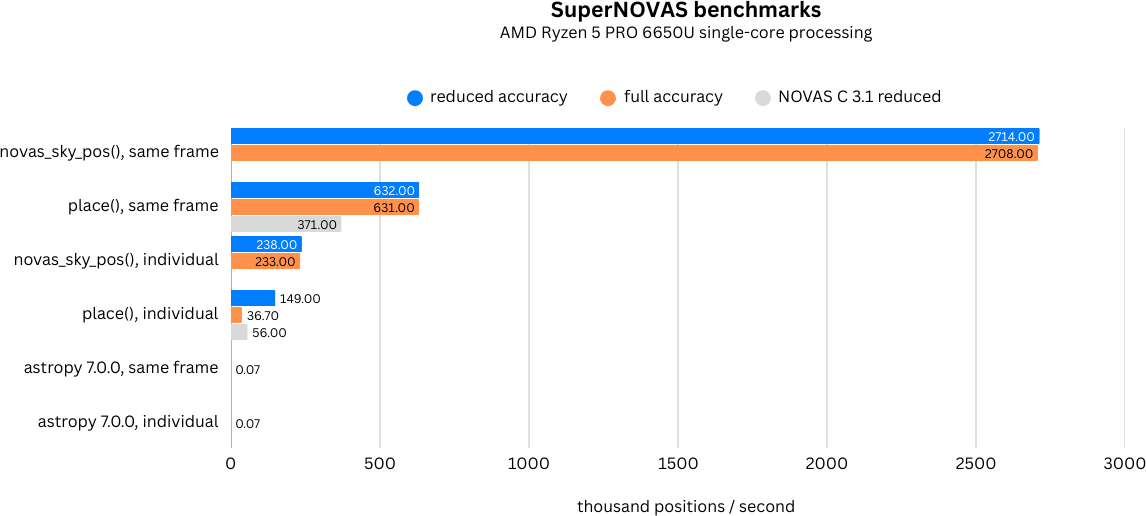
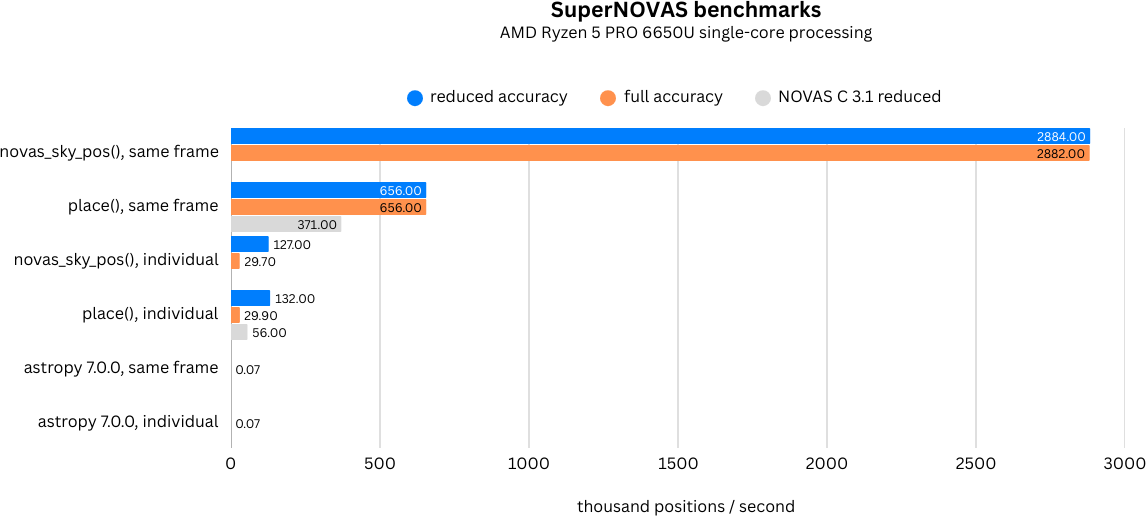
Correct individual frames benchmarks and site update

diff --git a/benchmark/benchmark-place.c b/benchmark/benchmark-place.c
@@ -183,7 +183,7 @@ int main(int argc, const char *argv[]) {
   // Benchmark reduced accuracy, individual fames
   clock_gettime(CLOCK_REALTIME, &unix_time);
   for(i = 0; i < N; i++) {
-    novas_set_unix_time(unix_time.tv_sec, unix_time.tv_nsec, LEAP_SECONDS, DUT1, &obs_time);
+    novas_set_unix_time(unix_time.tv_sec + i, unix_time.tv_nsec, LEAP_SECONDS, DUT1, &obs_time);
     novas_make_frame(NOVAS_REDUCED_ACCURACY, &obs, &obs_time, POLAR_DX, POLAR_DY, &obs_frame);
     calc_pos(&stars[i], &obs_frame);
   }
@@ -195,7 +195,7 @@ int main(int argc, const char *argv[]) {
   // Benchmark full accuracy, individual frames
   clock_gettime(CLOCK_REALTIME, &unix_time);
   for(i = 0; i < N; i++) {
-    novas_set_unix_time(unix_time.tv_sec, unix_time.tv_nsec, LEAP_SECONDS, DUT1, &obs_time);
+    novas_set_unix_time(unix_time.tv_sec + i, unix_time.tv_nsec, LEAP_SECONDS, DUT1, &obs_time);
     novas_make_frame(NOVAS_FULL_ACCURACY, &obs, &obs_time, POLAR_DX, POLAR_DY, &obs_frame);
     calc_pos(&stars[i], &obs_frame);
   }

diff --git a/benchmark/benchmark-astropy.py b/benchmark/benchmark-astropy.py
@@ -20,13 +20,14 @@ from astropy.coordinates import SkyCoord, EarthLocation, Longitude, Latitude, CI
 # main program entry point
 
 # Number of sources / iterations to test with
-N = 300			
+N = 300
+
 
 # ----------------------------------------------------------------------------
 # Set up a source 'catalog' with the desired number of sources and random 
 # properties
 sources = []
-	
+
 for i in range(0, N):
 	# Generate random source properties
 	ra = Longitude(360.0 * (random.random() - 0.5) * u.degree)

diff --git a/README.md b/README.md
@@ -1352,27 +1352,27 @@ aberration and gravitational deflection corrections from the observer's point of
 
  | Description                         | accuracy  | positions / sec |
  |-------------------------------------|:---------:|----------------:|
- | `novas_sky_pos()`, same frame       | reduced   |         2713879 |
- |                                     |   full    |         2708014 |
- | `place()`, same time, same observer | reduced   |          631643 |
- |                                     |   full    |          630705 |
- | `novas_sky_pos()`, individual       | reduced   |          238445 |
- |                                     |   full    |          232862 |
- | `place()`, individual               | reduced   |          149049 |
- |                                     |   full    |           36619 |
+ | `novas_sky_pos()`, same frame       | reduced   |         2884159 |
+ |                                     |   full    |         2881913 |
+ | `place()`, same time, same observer | reduced   |          656077 |
+ |                                     |   full    |          656112 |
+ | `novas_sky_pos()`, individual       | reduced   |          127370 |
+ |                                     |   full    |           29674 |
+ | `place()`, individual               | reduced   |          132218 |
+ |                                     |   full    |           29932 |
 
 For reference, we also provide the reduced accuracy benchmarks from NOVAS C 3.1.
 
  | Description                         | accuracy  | positions / sec |
  |-------------------------------------|:---------:|----------------:|
- | NOVAS C 3.1 `place()`, same         | reduced   |          371164 |
+ | NOVAS C 3.1 `place()`, same frame   | reduced   |          371164 |
  | NOVAS C 3.1 `place()`, individual   | reduced   |           55484 |
  
 For comparison, a very similar benchmark with [astropy](https://www.astropy.org/) (v7.0.0 on Python v3.13.1) on the 
 same machine, provides ~70 positions / second both for a fixed frame and for individual frames. As such, 
 __SuperNOVAS__ is a whopping ~40000 times faster than __astropy__ for calculations in the same observing frame, and 
-~3000 times faster than __astropy__ for individual frames. (The __astropy__ benchmarking code is also provided under 
-the `benchmark/` folder in the __SuperNOVAS__ GitHub repository).
+400--2000 times faster than __astropy__ for individual frames. (The __astropy__ benchmarking code is also provided 
+under the `benchmark/` folder in the __SuperNOVAS__ GitHub repository).
  
  | Description                                     | positions / sec |
  |-------------------------------------------------|----------------:|
@@ -1386,7 +1386,7 @@ As one may observe, the __SuperNOVAS__ `novas_sky_pos()` significantly outperfor
 repeatedly calculating positions for sources for the same instant of time and same observer location, providing up to 
 2 orders of magnitude faster performance than for individual observing times and/or observer locations. Also, when 
 observing frames are reused, the performance is essentially independent of the accuracy. By contrast, calculations for 
-individual observing times or observer locations are generally around 2x faster if reduced accuracy is sufficient.
+individual observing times or observer locations are generally around 4x faster if reduced accuracy is sufficient.
 
 The above benchmarks are all for single-threaded performance. Since __SuperNOVAS__ is generally thread-safe, you can 
 expect that performance shall scale with the number of concurrent CPUs used. So, on a 16-core PC, with similar single 
@@ -1445,7 +1445,7 @@ one minute.
    time. Once set, you can obtain an expression of that time in any timescale of choice. And, you can create a new 
    time specification by incrementing an existing one, or measure precise time differences.
    
- - New coordinate reference systems `NOVAS_MOD` (Mean of Date) which includes precession by not nutation and
+ - New coordinate reference systems `NOVAS_MOD` (Mean of Date) which includes precession but not nutation and
    `NOVAS_J2000` for the J2000 dynamical reference system.
 
  - New observer locations `NOVAS_AIRBORNE_OBSERVER` and `NOVAS_SOLAR_SYSTEM_OBSERVER`, and corresponding

diff --git a/CHANGELOG.md b/CHANGELOG.md
@@ -15,9 +15,10 @@ Upcoming bug fix release, expected around 1 May 2025.
 
  - #167: Fixes for Debian i386 cross builds.
 
- - #174: `accum_prec()` had linear and quadratic time evolutions coefficients swapped since v1.0. The bug affected
+ - #174: `accum_prec()` had linear and quadratic time evolution coefficients swapped since v1.0. The bug affected
    the IAU2000 precession-nutation calculations, and the calculation of the complementary terms in the equation of
-   equinoxes in `ee_ct()` / `e_tilt()`.
+   equinoxes in `ee_ct()` / `e_tilt()`. The effect however is small, typically just a few micro-arcseconds (&mu;as),
+   for dates within a century of J2000.
 
 ### Changed
 
@@ -32,6 +33,8 @@ Upcoming bug fix release, expected around 1 May 2025.
    benchmarks).
    
  - #171: Moved `precession()`, `nutation()`, and `nutation_angles()` to `equinox.c`.
+ 
+ - Corrected benchmarks for individual frames.
  
  - Corrections and edits to API documentation.
 
